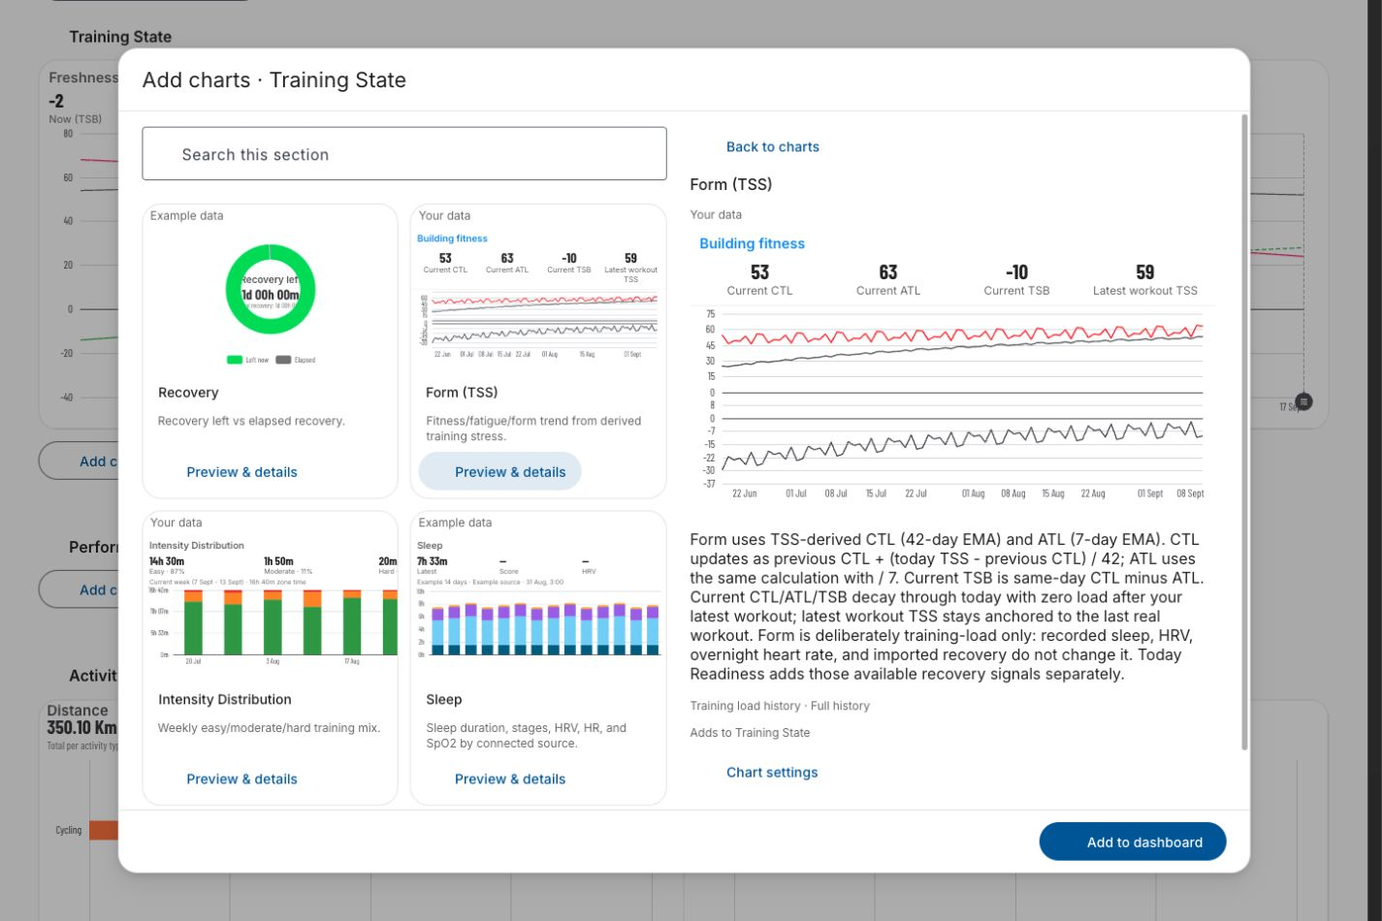
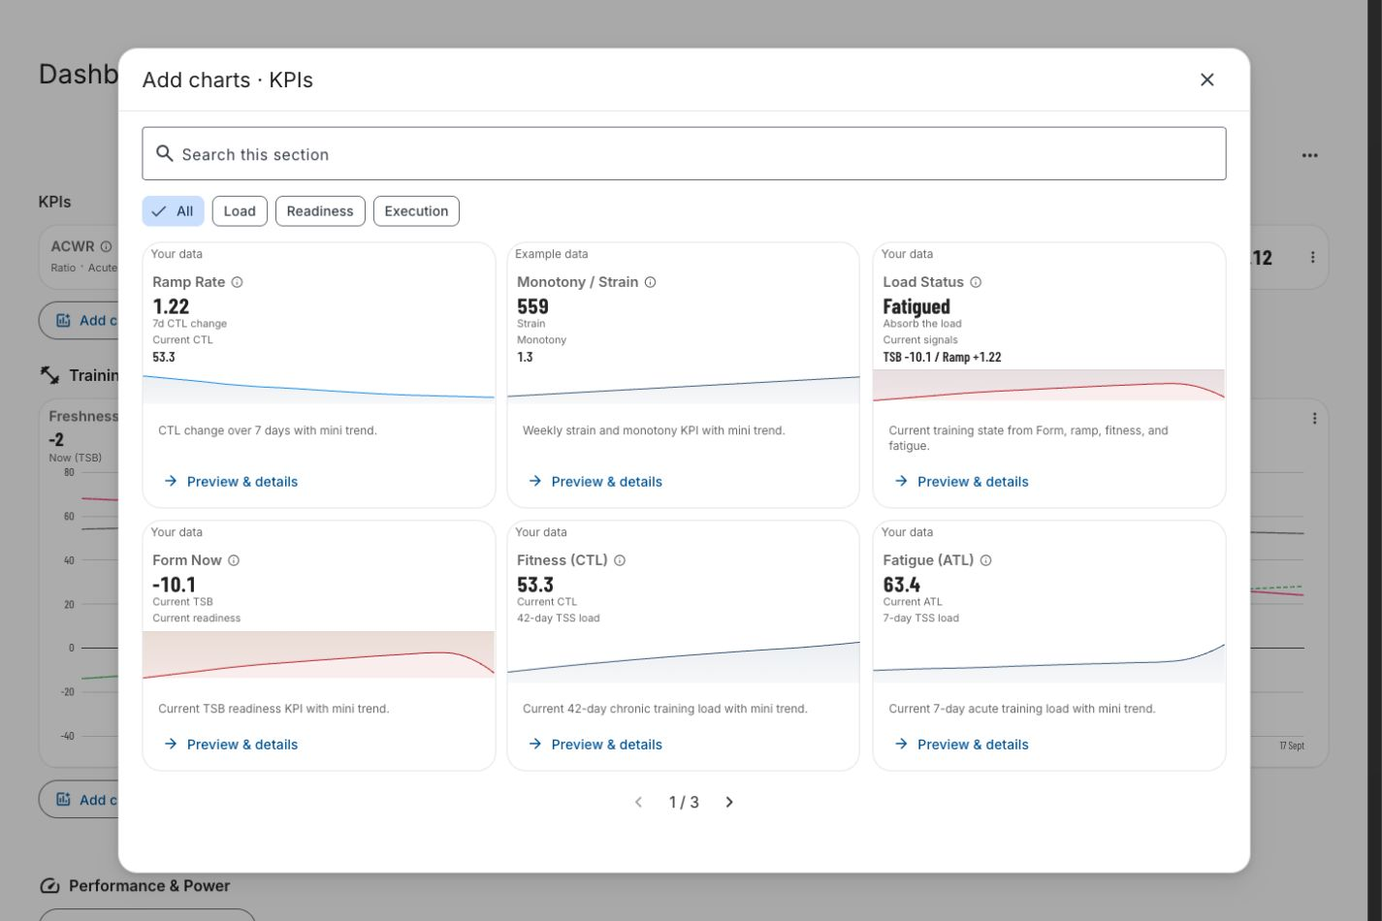
fix: improve chart picker previews and undo behavior

diff --git a/src/app/components/summaries/dashboard-chart-library/dashboard-chart-library.component.html b/src/app/components/summaries/dashboard-chart-library/dashboard-chart-library.component.html
@@ -11,7 +11,7 @@
     <button mat-icon-button aria-label="Close chart library" [disabled]="state.busy()" (click)="close()"><mat-icon>close</mat-icon></button>
   </div>
   <div #scrollContent class="chart-library-layout qs-scrollbar" [class.has-selection]="state.draft()">
-    <div #browser class="chart-library-browser" tabindex="-1">
+    <div #browser class="chart-library-browser qs-scrollbar" tabindex="-1">
       <mat-form-field appearance="outline" subscriptSizing="dynamic"><mat-label>Search this section</mat-label><mat-icon matPrefix>search</mat-icon><input matInput [value]="search()" (input)="filter($any($event.target).value)"></mat-form-field>
       @if (lane() === 'kpi') {
       <mat-chip-listbox aria-label="KPI group" [value]="group()" (change)="selectGroup($event.value)">
@@ -22,7 +22,7 @@
         @for (entry of visible(); track entry.definition.id) {
         <mat-card appearance="outlined" [class.chart-library-card-selected]="state.selected()?.definition?.id === entry.definition.id">
           <div class="chart-library-thumbnail" aria-hidden="true" inert><app-dashboard-chart-preview [user]="user()" [tile]="entry.tile" [seed]="seed()" [darkTheme]="darkTheme()" [thumbnail]="true"></app-dashboard-chart-preview></div>
-          <mat-card-header><mat-card-title>{{ entry.definition.label }}</mat-card-title></mat-card-header>
+          @if (lane() !== 'kpi') { <mat-card-header><mat-card-title>{{ entry.definition.label }}</mat-card-title></mat-card-header> }
           <mat-card-content><p>{{ entry.definition.description }}</p></mat-card-content>
           <mat-card-actions><button mat-button [attr.aria-label]="'Preview ' + entry.definition.label" [disabled]="state.busy()" (click)="select(entry)">Preview & details<mat-icon>arrow_forward</mat-icon></button></mat-card-actions>
         </mat-card>
@@ -36,7 +36,7 @@
       }
     </div>
     @if (state.draft(); as draft) {
-    <div #detail class="chart-library-detail" tabindex="-1">
+    <div #detail class="chart-library-detail qs-scrollbar" tabindex="-1">
       <button mat-button [disabled]="state.busy()" (click)="back()"><mat-icon>arrow_back</mat-icon>Back to charts</button>
       <h3>{{ draftDefinition()?.label || (state.editor()?.mode === 'edit' ? 'Edit chart' : 'Custom chart') }}</h3>
       <app-dashboard-chart-preview [user]="user()" [tile]="draft" [seed]="seed()" [darkTheme]="darkTheme()"></app-dashboard-chart-preview>
@@ -45,13 +45,14 @@
       @if (state.configuring()) {
       <app-dashboard-tile-editor [attr.inert]="state.busy() ? '' : null" [configuration]="state.editor()!" (changed)="state.refreshDraft()"></app-dashboard-tile-editor>
       } @else { <button mat-button (click)="state.configure()" [disabled]="state.busy()"><mat-icon>tune</mat-icon>Chart settings</button> }
-      @if (state.error()) { <p class="chart-library-error" role="alert">{{ state.error() }}</p> }
-
     </div>
     }
   </div>
   @if (state.draft()) {
-      <div class="chart-library-save"><button mat-flat-button [disabled]="state.busy() || state.editor()?.isSaveDisabled" (click)="state.save()"><span class="chart-library-button-content"><span class="chart-library-button-icon">@if (state.busy()) { <mat-spinner diameter="18"></mat-spinner> } @else { <mat-icon>{{ state.editor()?.mode === 'edit' ? 'check' : 'add' }}</mat-icon> }</span><span>{{ state.busy() ? 'Saving…' : state.editor()?.mode === 'edit' ? 'Save changes' : 'Add to dashboard' }}</span></span></button></div>
+      <div class="chart-library-save">
+        @if (state.error()) { <p class="chart-library-error" role="alert">{{ state.error() }}</p> }
+        <button mat-flat-button [disabled]="state.busy() || state.editor()?.isSaveDisabled" (click)="state.save()"><span class="chart-library-button-content"><span class="chart-library-button-icon">@if (state.busy()) { <mat-spinner diameter="18"></mat-spinner> } @else { <mat-icon>{{ state.editor()?.mode === 'edit' ? 'check' : 'add' }}</mat-icon> }</span><span>{{ state.busy() ? 'Saving…' : state.editor()?.mode === 'edit' ? 'Save changes' : 'Add to dashboard' }}</span></span></button>
+      </div>
   }
 </section>
 </ng-template>

diff --git a/src/app/components/summaries/dashboard-chart-library/dashboard-chart-library.component.css b/src/app/components/summaries/dashboard-chart-library/dashboard-chart-library.component.css
@@ -6,23 +6,24 @@
 .chart-library-heading, .chart-library-pagination { display: flex; align-items: center; justify-content: space-between; gap: 12px; }
 h3 { font: var(--mat-sys-title-medium); margin-block: 8px; }
 .chart-library-layout { display: grid; grid-template-columns: minmax(0, 1fr); gap: 24px; padding: 16px 24px; min-height: 0; overflow: auto; flex: 1 1 auto; align-content: start; align-items: start; }
-.chart-library-layout.has-selection { grid-template-columns: minmax(0, 1fr) minmax(320px, 1fr); }
+.chart-library-layout.has-selection { grid-template-columns: minmax(0, 1fr) minmax(320px, 1fr); grid-template-rows: minmax(0, 1fr); align-items: stretch; overflow: hidden; }
+.has-selection .chart-library-browser, .has-selection .chart-library-detail { min-height: 0; overflow: auto; }
 .chart-library-browser, .chart-library-detail { min-width: 0; }
 .chart-library-browser > mat-form-field { width: 100%; margin-block-end: 12px; }
 .chart-library-cards { display: grid; grid-template-columns: repeat(3, minmax(0, 1fr)); gap: 12px; margin-block: 12px; }
-.has-selection .chart-library-cards { grid-template-columns: repeat(2, minmax(0, 1fr)); }
+.has-selection .chart-library-cards { grid-template-columns: minmax(0, 1fr); }
 .chart-library-cards mat-card { min-width: 0; overflow: hidden; }
 .chart-library-cards mat-card-title { font: var(--mat-sys-title-small); }
 .chart-library-cards p, .chart-library-destination { font: var(--mat-sys-body-small); color: var(--mat-sys-on-surface-variant); }
 .chart-library-cards mat-card-actions { margin-top: auto; }
 .chart-library-card-selected { border-color: var(--mat-sys-primary); }
-.chart-library-thumbnail { height: 170px; overflow: hidden; pointer-events: none; }
+.chart-library-thumbnail { overflow: hidden; pointer-events: none; }
 .chart-library-pagination { justify-content: center; }
-.chart-library-error { color: var(--mat-sys-error); }
+.chart-library-error { color: var(--mat-sys-error); font: var(--mat-sys-body-medium); margin: 0; flex: 1; }
 .chart-library-save button { min-width: 180px; }
 .chart-library-button-icon, .chart-library-button-icon mat-icon { width: 18px; height: 18px; font-size: 18px; line-height: 18px; }
 .chart-library-button-icon { display: flex; align-items: center; justify-content: center; }
-.chart-library-save { display: flex; justify-content: flex-end; flex: 0 0 auto; padding: 12px 24px max(12px, env(safe-area-inset-bottom)); border-top: 1px solid var(--mat-sys-outline-variant); }
+.chart-library-save { display: flex; align-items: center; justify-content: flex-end; gap: 12px; flex: 0 0 auto; padding: 12px 24px max(12px, env(safe-area-inset-bottom)); border-top: 1px solid var(--mat-sys-outline-variant); }
 .chart-library-button-content { display: flex; align-items: center; justify-content: center; gap: 8px; }
 @media (max-width: 959px) { .chart-library-heading, .chart-library-layout, .chart-library-save { padding-inline: 0; } .chart-library-cards { grid-template-columns: repeat(2,minmax(0,1fr)); } .chart-library-layout.has-selection { grid-template-columns: minmax(0,1fr); } .has-selection .chart-library-browser { display: none; } }
-@media (max-width: 599px) { .chart-library-cards { grid-template-columns: minmax(0,1fr); } .chart-library-save button { width: 100%; } .chart-library-heading h2 { font: var(--mat-sys-title-medium); } }
+@media (max-width: 599px) { .chart-library-cards { grid-template-columns: minmax(0,1fr); } .chart-library-save { flex-direction: column; align-items: stretch; } .chart-library-save button { width: 100%; } .chart-library-heading h2 { font: var(--mat-sys-title-medium); } }

diff --git a/src/app/components/summaries/dashboard-chart-library/dashboard-chart-library-state.service.spec.ts b/src/app/components/summaries/dashboard-chart-library/dashboard-chart-library-state.service.spec.ts
@@ -3,7 +3,7 @@ import { beforeEach, describe, expect, it, vi } from 'vitest';
 import { of } from 'rxjs';
 import { MatDialog } from '@angular/material/dialog';
 import { DashboardChartLibraryState } from './dashboard-chart-library-state.service';
-import { DashboardConfigurationService, DashboardConfigurationConflict } from '../../../services/dashboard-configuration.service';
+import { DashboardConfigurationService, DashboardConfigurationConflict, assertDashboardConfigurationCurrent } from '../../../services/dashboard-configuration.service';
 import { AppHapticsService } from '../../../services/app.haptics.service';
 import { AppEventService } from '../../../services/app.event.service';
 import { AppSleepService } from '../../../services/app.sleep.service';
@@ -113,6 +113,26 @@ describe('inline chart library state', () => {
     state.invalidateUndo(user.settings.dashboardSettings); await state.undo(user);
     expect(state.undoAvailable()).toBe(false); expect(persistence.save).toHaveBeenCalledTimes(1);
     expect(user.settings.dashboardSettings.tiles).toHaveLength(1);
+  });
+  it('undoes only chart fields when local and persisted event-table filters differ', async () => {
+    user.settings.dashboardSettings.eventTableFilters = { searchTerm: 'local search', startDate: 100, endDate: 200 } as never;
+    let stored = { tiles: [], eventTableFilters: { searchTerm: 'stored search', startDate: 10, endDate: 20 } };
+    persistence.save.mockImplementation(async (_uid, expected, patch) => {
+      assertDashboardConfigurationCurrent(stored as never, expected, Object.keys(patch));
+      stored = { ...stored, ...structuredClone(patch) };
+    });
+    await state.select(user, calendar); await state.save();
+    user.settings.dashboardSettings.eventTableFilters.searchTerm = 'new local search';
+    state.invalidateUndo(user.settings.dashboardSettings);
+    expect(state.undoAvailable()).toBe(true);
+    await state.undo(user);
+    expect(state.error()).toBe('');
+    expect(user.settings.dashboardSettings.tiles).toEqual([]);
+    expect(user.settings.dashboardSettings.eventTableFilters.searchTerm).toBe('new local search');
+    expect(stored.tiles).toEqual([]);
+    expect(stored.eventTableFilters.searchTerm).toBe('stored search');
+    expect(persistence.save.mock.calls.at(-1)?.[2]).not.toHaveProperty('eventTableFilters');
+    expect(state.undoAvailable()).toBe(false);
   });
   it('keeps the open draft when a bulk confirmation is cancelled', async () => {
     await state.open(calendar.lane); await state.select(user, calendar);

diff --git a/src/app/shared/help.content.ts b/src/app/shared/help.content.ts
@@ -287,7 +287,7 @@ export const HELP_SECTIONS: HelpSection[] = [
 - The section’s add action opens a chart picker: a wide dialog on desktop or a bottom sheet on mobile. Select **Preview & details** to see a larger chart, its explanation, data scope, and destination section. Desktop keeps the list beside the details; mobile uses **Back to charts** to return to the list.
 - **Your data** previews use available personal data. **Example data** previews use synthetic examples when data is missing or unavailable, including while personal data is loading. Browsing never adds a chart or starts a metric rebuild.
 - Use **Chart settings** for the full editor in the picker with **Curated**, **KPI**, **Custom**, and **Map** categories. The Add or Save button stays at the bottom of the picker. Nothing is saved until **Add to dashboard** or **Save changes**; a successful save closes the picker and reveals the chart. Leaving changed settings asks whether to discard them.
-- After adding a chart, **Undo** removes that addition until another dashboard change makes it unsafe to undo. If you have started editing another chart, Undo asks before discarding those changes. If the dashboard changed elsewhere, reopen the editor with the current layout before saving again.
+- After adding a chart, **Undo** removes that addition until another chart change makes it unsafe to undo. Your event-table search and date filters stay unchanged. If you have started editing another chart, Undo asks before discarding those changes. If the dashboard changed elsewhere, reopen the editor with the current layout before saving again.
 - Open a tile's three-dot menu and choose **Edit chart** to open its settings in the chart picker. You can remove the last tile; empty sections retain their add action. Shared dashboards remain read-only.
 - **Curated Recovery** remains a fixed insight and does not react to event table or custom tile date ranges.
 - **Activity Calendar** is the default 1 x 1 dashboard tile. It shows the current month and opens the full [Calendar](/calendar). Existing editable dashboards that do not contain it receive it once automatically; **Undo** or removing it keeps it dismissed. The [Activity Calendar guide](/help#activity-calendar) explains its views, circles, summaries, and data scope.

diff --git a/src/app/components/summaries/dashboard-chart-library/dashboard-chart-library.component.spec.ts b/src/app/components/summaries/dashboard-chart-library/dashboard-chart-library.component.spec.ts
@@ -89,13 +89,19 @@ describe('responsive chart picker interactions', () => {
     await component.select(component.visible()[0]); await settle();
     await vi.waitFor(() => expect(content.scrollTop).toBe(0));
     expect(document.activeElement).toBe(document.body.querySelector('.chart-library-detail'));
+    const detail = document.body.querySelector<HTMLElement>('.chart-library-detail')!;
+    detail.scrollTop = 400;
+    await component.select(component.visible()[1]); await settle();
+    await vi.waitFor(() => expect(detail.scrollTop).toBe(0));
   });
   it('pages a large section and combines search with KPI groups', async () => {
     button('Add charts').click(); await settle();
     expect(document.body.querySelectorAll('mat-card')).toHaveLength(6);
     expect(component.totalPages()).toBe(3);
+    document.body.querySelector<HTMLElement>('.chart-library-layout')!.scrollTop = 500;
     (document.body.querySelector('[aria-label="Next charts"]') as HTMLButtonElement).click(); await settle();
     expect(component.currentPage()).toBe(1);
+    await vi.waitFor(() => expect(document.body.querySelector<HTMLElement>('.chart-library-layout')!.scrollTop).toBe(0));
     component.selectGroup('execution'); component.filter('aerobic'); await settle();
     expect(document.body.querySelectorAll('mat-card')).toHaveLength(2);
     expect(component.currentPage()).toBe(0); expect(save).not.toHaveBeenCalled();
@@ -148,5 +154,14 @@ describe('responsive chart picker interactions', () => {
     expect(component.expanded()).toBe(true);
     resolve(); await saving; await settle();
     expect(document.body.querySelector('.chart-library-detail')).toBeNull();
+  });
+  it('keeps a failed save visible beside the retry action even when details are long', async () => {
+    save.mockRejectedValueOnce(new Error('Save failed'));
+    await component.toggle(); await component.select(component.visible()[0]); await settle();
+    await component.state.save(); await settle();
+    expect(component.expanded()).toBe(true);
+    expect(document.body.querySelector('.chart-library-save [role="alert"]')?.textContent).toContain('Could not save');
+    expect(button('Add to dashboard').disabled).toBe(false);
+    expect(component.state.draft()).not.toBeNull();
   });
 });

diff --git a/src/app/components/summaries/dashboard-chart-library/dashboard-chart-preview.component.ts b/src/app/components/summaries/dashboard-chart-library/dashboard-chart-preview.component.ts
@@ -6,7 +6,7 @@ import { DashboardChartPreviewService } from '../../../services/dashboard-chart-
 import { DashboardPreviewInput, DashboardChartPreview, buildDashboardExamplePreview, buildDashboardPreviewSeed, dashboardPreviewHasData } from '../../../helpers/dashboard-chart-preview.helper';
 import { buildDashboardTileViewModels, DashboardChartTileViewModel, DashboardMapTileViewModel } from '../../../helpers/dashboard-tile-view-model.helper';
 import { buildActivityCalendarViewModel } from '../../../helpers/activity-calendar.helper';
-import { DASHBOARD_ACTIVITY_CALENDAR_CHART_TYPE } from '../../../helpers/dashboard-special-chart-types';
+import { DASHBOARD_ACTIVITY_CALENDAR_CHART_TYPE, isDashboardKpiChartType } from '../../../helpers/dashboard-special-chart-types';
 @Component({ selector: 'app-dashboard-chart-preview', standalone: false, templateUrl: './dashboard-chart-preview.component.html', styleUrls: ['./dashboard-chart-preview.component.css'] })
 export class DashboardChartPreviewComponent implements OnChanges, OnDestroy {
   private readonly locale = inject(LOCALE_ID);
@@ -18,6 +18,7 @@ export class DashboardChartPreviewComponent implements OnChanges, OnDestroy {
   @Input() darkTheme = false;
   readonly preview = signal<DashboardChartPreview | null>(null);
   readonly chart = computed(() => this.preview()?.tile.type === TileTypes.Chart ? this.preview()!.tile as DashboardChartTileViewModel : null);
+  readonly isKpi = computed(() => isDashboardKpiChartType(this.chart()?.chartType));
   readonly mapTile = computed(() => this.preview()?.tile.type === TileTypes.Map ? this.preview()!.tile as DashboardMapTileViewModel : null);
   readonly calendar = computed(() => `${this.chart()?.chartType}` === DASHBOARD_ACTIVITY_CALENDAR_CHART_TYPE
     ? buildActivityCalendarViewModel(this.preview()!.calendarEvents, { view: 'month', anchorDate: new Date(this.preview()!.anchorMs), now: new Date(this.preview()!.anchorMs), startOfWeek: this.user?.settings?.unitSettings?.startOfTheWeek, locale: this.locale }) : null);

diff --git a/src/app/components/summaries/dashboard-chart-library/dashboard-chart-library-state.service.ts b/src/app/components/summaries/dashboard-chart-library/dashboard-chart-library-state.service.ts
@@ -142,7 +142,7 @@ export class DashboardChartLibraryState implements OnDestroy {
       controller.destroy();
       await this.persistence.save(user.uid, undo.after, restored);
       if (contextVersion !== this.contextVersion) return;
-      user.settings.dashboardSettings = restored;
+      user.settings.dashboardSettings = { ...user.settings.dashboardSettings, ...restored };
       this.clearSelection(); this.activeLane.set(null);
       this.undoAvailable.set(false); this.changed$.next(null); this.haptics.success();
     } catch (error) { if (contextVersion === this.contextVersion) { this.error.set(error instanceof Error ? error.message : 'Could not undo the addition.'); this.haptics.error(); } }
@@ -180,7 +180,13 @@ export class DashboardChartLibraryState implements OnDestroy {
       this.mutationVersion++;
       user.settings.dashboardSettings = { ...user.settings.dashboardSettings, ...patch };
       const order = controller.mode === 'add' && controller.savingAction === 'save' ? user.settings.dashboardSettings.tiles.at(-1)?.order ?? null : controller.editTileOrder;
-      this.undoState = allowUndo ? { uid: user.uid, before: baseline, after: cloneDashboardSettings(user.settings.dashboardSettings) } : null;
+      // Undo owns the same fields as the chart write. Event-table filters can have
+      // newer local dates than storage and must neither block Undo nor be rolled back.
+      this.undoState = allowUndo ? {
+        uid: user.uid,
+        before: cloneDashboardSettings(Object.fromEntries(Object.keys(patch).map(key => [key, baseline[key]]))),
+        after: cloneDashboardSettings(patch),
+      } : null;
       this.undoAvailable.set(allowUndo);
       this.changed$.next(order);
     } }, this.haptics, this.sleep, this.events, this.routes, this.derived);

diff --git a/src/app/helpers/echarts-host-controller.spec.ts b/src/app/helpers/echarts-host-controller.spec.ts
@@ -266,8 +266,32 @@ describe('EChartsHostController', () => {
     expect(loader.setOption).toHaveBeenCalledTimes(1);
     expect(loader.resize).toHaveBeenCalledTimes(1);
     expect(loader.resize).toHaveBeenCalledWith(chartMock, {
+      width: 'auto',
+      height: 'auto',
       silent: true,
     });
+  });
+
+  it('releases fixed initialization dimensions when a preview grows to its live container', async () => {
+    const frames: FrameRequestCallback[] = [];
+    globalThis.requestAnimationFrame = vi.fn(callback => { frames.push(callback); return frames.length; });
+    const loader = buildLoaderMock();
+    const controller = new EChartsHostController({
+      eChartsLoader: loader as any,
+      initOptions: { width: 96, height: 38 },
+    });
+    const container = document.createElement('div');
+    Object.defineProperty(container, 'clientWidth', { configurable: true, value: 540 });
+    Object.defineProperty(container, 'clientHeight', { configurable: true, value: 100 });
+    await controller.init(container);
+    controller.scheduleResize();
+    frames.shift()!(0);
+    expect(loader.resize).toHaveBeenLastCalledWith(chartMock, { width: 'auto', height: 'auto', silent: true });
+    Object.defineProperty(container, 'clientWidth', { configurable: true, value: 280 });
+    resizeObserverRecords[0].trigger();
+    frames.shift()!(0);
+    expect(loader.resize).toHaveBeenCalledTimes(2);
+    expect(loader.resize).toHaveBeenLastCalledWith(chartMock, { width: 'auto', height: 'auto', silent: true });
   });
 
   it('should hide the active tooltip after initialization', async () => {

diff --git a/src/app/components/summaries/dashboard-chart-library/dashboard-chart-preview.component.spec.ts b/src/app/components/summaries/dashboard-chart-library/dashboard-chart-preview.component.spec.ts
@@ -33,4 +33,17 @@ describe('chart preview rendering contract', () => {
     fixture.componentRef.setInput('thumbnail', false); fixture.detectChanges();
     expect(fixture.nativeElement.textContent).toContain('Example data · Loading your data');
   });
+  it('uses a KPI-specific preview height while preserving the full chart renderer', () => {
+    const kpi = getDashboardChartCatalog().find(entry => entry.definition.category === 'kpi')!.tile;
+    watch.mockReturnValue(of(buildDashboardExamplePreview(kpi)));
+    const fixture = TestBed.createComponent(DashboardChartPreviewComponent);
+    fixture.componentRef.setInput('user', { uid: 'example', settings: { unitSettings: {} } });
+    fixture.componentRef.setInput('tile', kpi);
+    fixture.componentRef.setInput('thumbnail', true); fixture.detectChanges();
+    expect(fixture.debugElement.query(By.css('app-tile-chart')).properties['previewMode']).toBe(true);
+    expect(fixture.nativeElement.querySelector('.chart-preview-kpi')).not.toBeNull();
+    fixture.componentRef.setInput('thumbnail', false); fixture.detectChanges();
+    expect(fixture.nativeElement.querySelector('.chart-preview-kpi')).not.toBeNull();
+    expect(fixture.nativeElement.querySelector('.chart-preview-thumbnail')).toBeNull();
+  });
 });

diff --git a/src/app/components/summaries/dashboard-chart-library/dashboard-chart-library.component.ts b/src/app/components/summaries/dashboard-chart-library/dashboard-chart-library.component.ts
@@ -145,12 +145,14 @@ export class DashboardChartLibraryComponent {
   private focusBrowser(): void { this.focusContent(() => this.browser()?.nativeElement); }
   private focusContent(target: () => HTMLElement | undefined): void {
     requestAnimationFrame(() => {
-      target()?.focus({ preventScroll: true });
+      const pane = target();
+      pane?.focus({ preventScroll: true });
+      if (pane) pane.scrollTop = 0;
       const content = this.scrollContent()?.nativeElement;
       if (content) content.scrollTop = 0;
     });
   }
   filter(value: string): void { this.search.set(value); this.page.set(0); }
   selectGroup(value: string): void { if (this.group() === value) return; this.state.haptics.selection(); this.group.set(value || 'all'); this.page.set(0); }
-  changePage(delta: number): void { this.state.haptics.selection(); this.page.set(this.currentPage()+delta); }
+  changePage(delta: number): void { this.state.haptics.selection(); this.page.set(this.currentPage()+delta); this.focusBrowser(); }
 }

diff --git a/src/app/components/summaries/dashboard-chart-library/dashboard-chart-preview.component.css b/src/app/components/summaries/dashboard-chart-library/dashboard-chart-preview.component.css
@@ -2,7 +2,9 @@
 .chart-preview-source, .chart-preview-note { font: var(--mat-sys-body-small); color: var(--mat-sys-on-surface-variant); padding-block: 4px; }
 .chart-preview-renderer { height: 300px; position: relative; overflow: hidden; }
 .chart-preview-renderer > app-tile-chart, .chart-preview-map, app-events-map, app-route-preview-map { display: block; height: 100%; width: 100%; }
-.chart-preview-thumbnail .chart-preview-renderer { height: 220px; width: 150%; transform: scale(.666667); transform-origin: top left; }
+.chart-preview-thumbnail .chart-preview-renderer { height: 260px; }
+.chart-preview-kpi .chart-preview-renderer { height: 200px; }
+.chart-preview-thumbnail.chart-preview-kpi .chart-preview-renderer { height: 152px; }
 .chart-preview-thumbnail .chart-preview-source { padding-inline: 8px; }
 mat-progress-bar { position: absolute; inset: 0 0 auto; z-index: 1; }
 @media (max-width: 599px) { .chart-preview-renderer { height: 260px; } }

diff --git a/src/app/components/summaries/dashboard-chart-library/dashboard-chart-preview.component.html b/src/app/components/summaries/dashboard-chart-library/dashboard-chart-preview.component.html
@@ -1,5 +1,5 @@
 @if (preview(); as model) {
-<div class="chart-preview" [class.chart-preview-thumbnail]="thumbnail">
+<div class="chart-preview" [class.chart-preview-thumbnail]="thumbnail" [class.chart-preview-kpi]="isKpi()">
   <div class="chart-preview-source" role="status">{{ model.loading ? 'Example data · Loading your data…' : model.source === 'user' ? 'Your data' : 'Example data' }}</div>
   <div class="chart-preview-renderer" [attr.aria-busy]="model.loading">
     @if (model.loading) { <mat-progress-bar mode="indeterminate" aria-label="Loading chart preview"></mat-progress-bar> }
